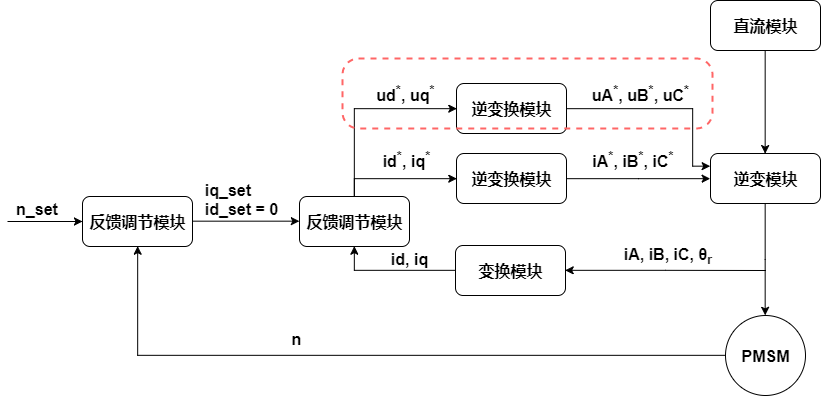
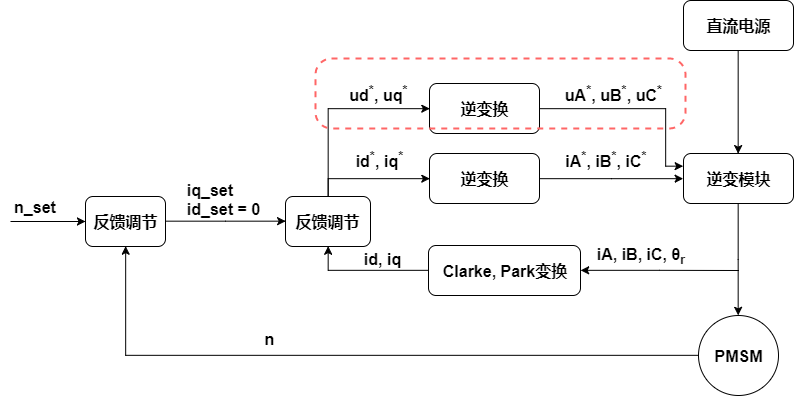
20171027 - Update posts

diff --git a/source/_drafts/电机控制之SVPWM.md b/source/_drafts/电机控制之SVPWM.md
@@ -16,36 +16,50 @@ tags:
 电机控制第五讲： {% post_link 笔记/电机控制之滑模控制 %}
 
 
+
+
+在{% post_link 笔记/电机控制之永磁同步电机矢量控制 %}中，已经初步介绍了矢量控制的基本过程。
+此篇文章将具体介绍，如何输出电压矢量$\boldsymbol{u_s}$到电机。
+
 <!-- more -->
 
 
 ---
-# 回顾PMSM模型
-
-在{% post_link 笔记/电机控制之永磁同步电机矢量控制 %}中，已经初步介绍了矢量控制的基本过程：
-
-> 转速$n \to \;$ 电流$i_q \to \;$ 电压$u_d^\*,u_q^\* \to \;$ 电压$\boldsymbol{u_s}(u_A^\* \; u_B^\* \; u_C^\*) \to \;$ 逆变模块 $\to \;$ 电机
-> 转速$n \to \;$ 电流$i_q \to \;$ 电流$i_d^\*,i_q^\* \to \;$ 电流$\boldsymbol{i_s}(i_A^\* \; i_B^\* \; i_C^\*) \to \;$ 逆变模块 $\to \;$ 电机
-
-SVPWM是通过控制输出电压 $\boldsymbol{u_s}(u_A^\* \; u_B^\* \; u_C^\*)$，来控制电机。通过反馈调节（如PID），再结合Clarke和Park变换，即可得到$\boldsymbol{u_s}(u_A^\* \; u_B^\* \; u_C^\*)$。
-此篇文章将具体介绍，如何输出电压矢量$\boldsymbol{u_s}$到电机。
-
-
----
 # 电压矢量输出说明
-如[图2-1](#图2-1)所示，现在我们要输出电压矢量$\boldsymbol{u_s}$。
 
-将SVPWM加入到控制流程后，其大致过程如[图2-2](#图2-2)所示。
+还是以 $i_d = 0$的控制方法为例，如[图1-1](#图1-1)所示，现在我们要输出电压$\boldsymbol{u_s}$，使得电流$\boldsymbol{i_s}$与$\boldsymbol{\psi_f}$的夹角$\beta=90^\circ$，以便电机以最大转矩运转。在此，我们估且将要输出的电压$\boldsymbol{u_s}$称为`目标电压`或者`期望电压`。
+
+<span id = "图1-1"></span>
+> ![图1-1 电压矢量图](1-01.png)
+
+
+同时，将SVPWM算法加入到控制流程后，其大致过程如[图1-2](#图1-2)所示。
+
+<span id = "图1-2"></span>
+> ![图1-2 矢量控制流程](1-02.png)
+
+看到这张图，有人会笑了，这SVPWM算法不是Park和Clarke的逆变换嘛。但我们说，事实并不是这样，由$u_d ^\*, u_q ^\* $经过逆变换得到的$u_A, u_B, u_C$是正弦值，即要输出正弦波电压，这样就是SPWM算法了，而不是SVPWM。
+
+## SPWM与SVPWM
+拿同步电机来说，在定子三相绕组通入三相对称正弦电流时，则会在气隙中产生正弦分布且幅值恒定的圆形旋转磁场，即定子的磁链矢量轨迹也是圆形，这对于电机控制来说，可以说是最理想的情况了。
+上面已经说过，由$u_d ^\*, u_q ^\* $经过逆变换得到的$u_A, u_B, u_C$是正弦波信号，所以，SPWM与SVPWM算法都是为了使输出的电压，尽量的接尽三相对称正弦波，以便得到理想的圆形磁链。
+SPWM的做法是对输出的PWM进行调制，使用PWM脉冲宽度按正弦规很变化，从而达到正弦波信号的效果（具体的原理就不细说了）。
+SVPWM的做法就请接着往下看了。
 
 
 ---
-# SVPWM矢量表
-SVPWM是电压矢量空间控制，其三相逆变电路原理图如[图3-1](#图3-1)所示。
+# 逆变输出
+要输出目标电压，我们得先知道逆变电路是怎样输出电压信号的。三相逆变电路原理图如[图2-1](#图2-1)所示。
 
-<span id = "图3-1"></span>
-> ![图3-1 三相逆变电路原理图](1-01.png) 
+<span id = "图2-1"></span>
+> ![图2-1 三相逆变电路原理图](2-01.png)
+
+
+## 矢量表
+
 
 这里约定
+
 
 ---
 # SVPWM合成

diff --git a/source/_posts/笔记/电机控制之永磁同步电机矢量控制.md b/source/_posts/笔记/电机控制之永磁同步电机矢量控制.md
@@ -566,6 +566,8 @@ $$
 > $\sqrt{2 \over 3}$ 也可换成 ${2 \over 3}$；
 > $\sqrt{2 \over 3}$ 可以保证功率不变；而${2 \over 3}$ 可以保证合成空间矢量分别在A,B,C轴上的投影等于三相变量的瞬时值。
 
+式中，$i_\alpha$ 和 $i_\beta$ 满足$ \boldsymbol{i_s} = i_\alpha + j i_\beta $
+
  - Park变换
 
 $$
@@ -584,6 +586,8 @@ i_\beta \\
 \end{bmatrix}
 {\tag {4-4}} {\label {4-4}}
 $$
+
+以上Clarke和Park变换只是一种坐标变换关系，同样适用于电压、磁动势等空间矢量。
 
 
 ## 矢量控制过程
